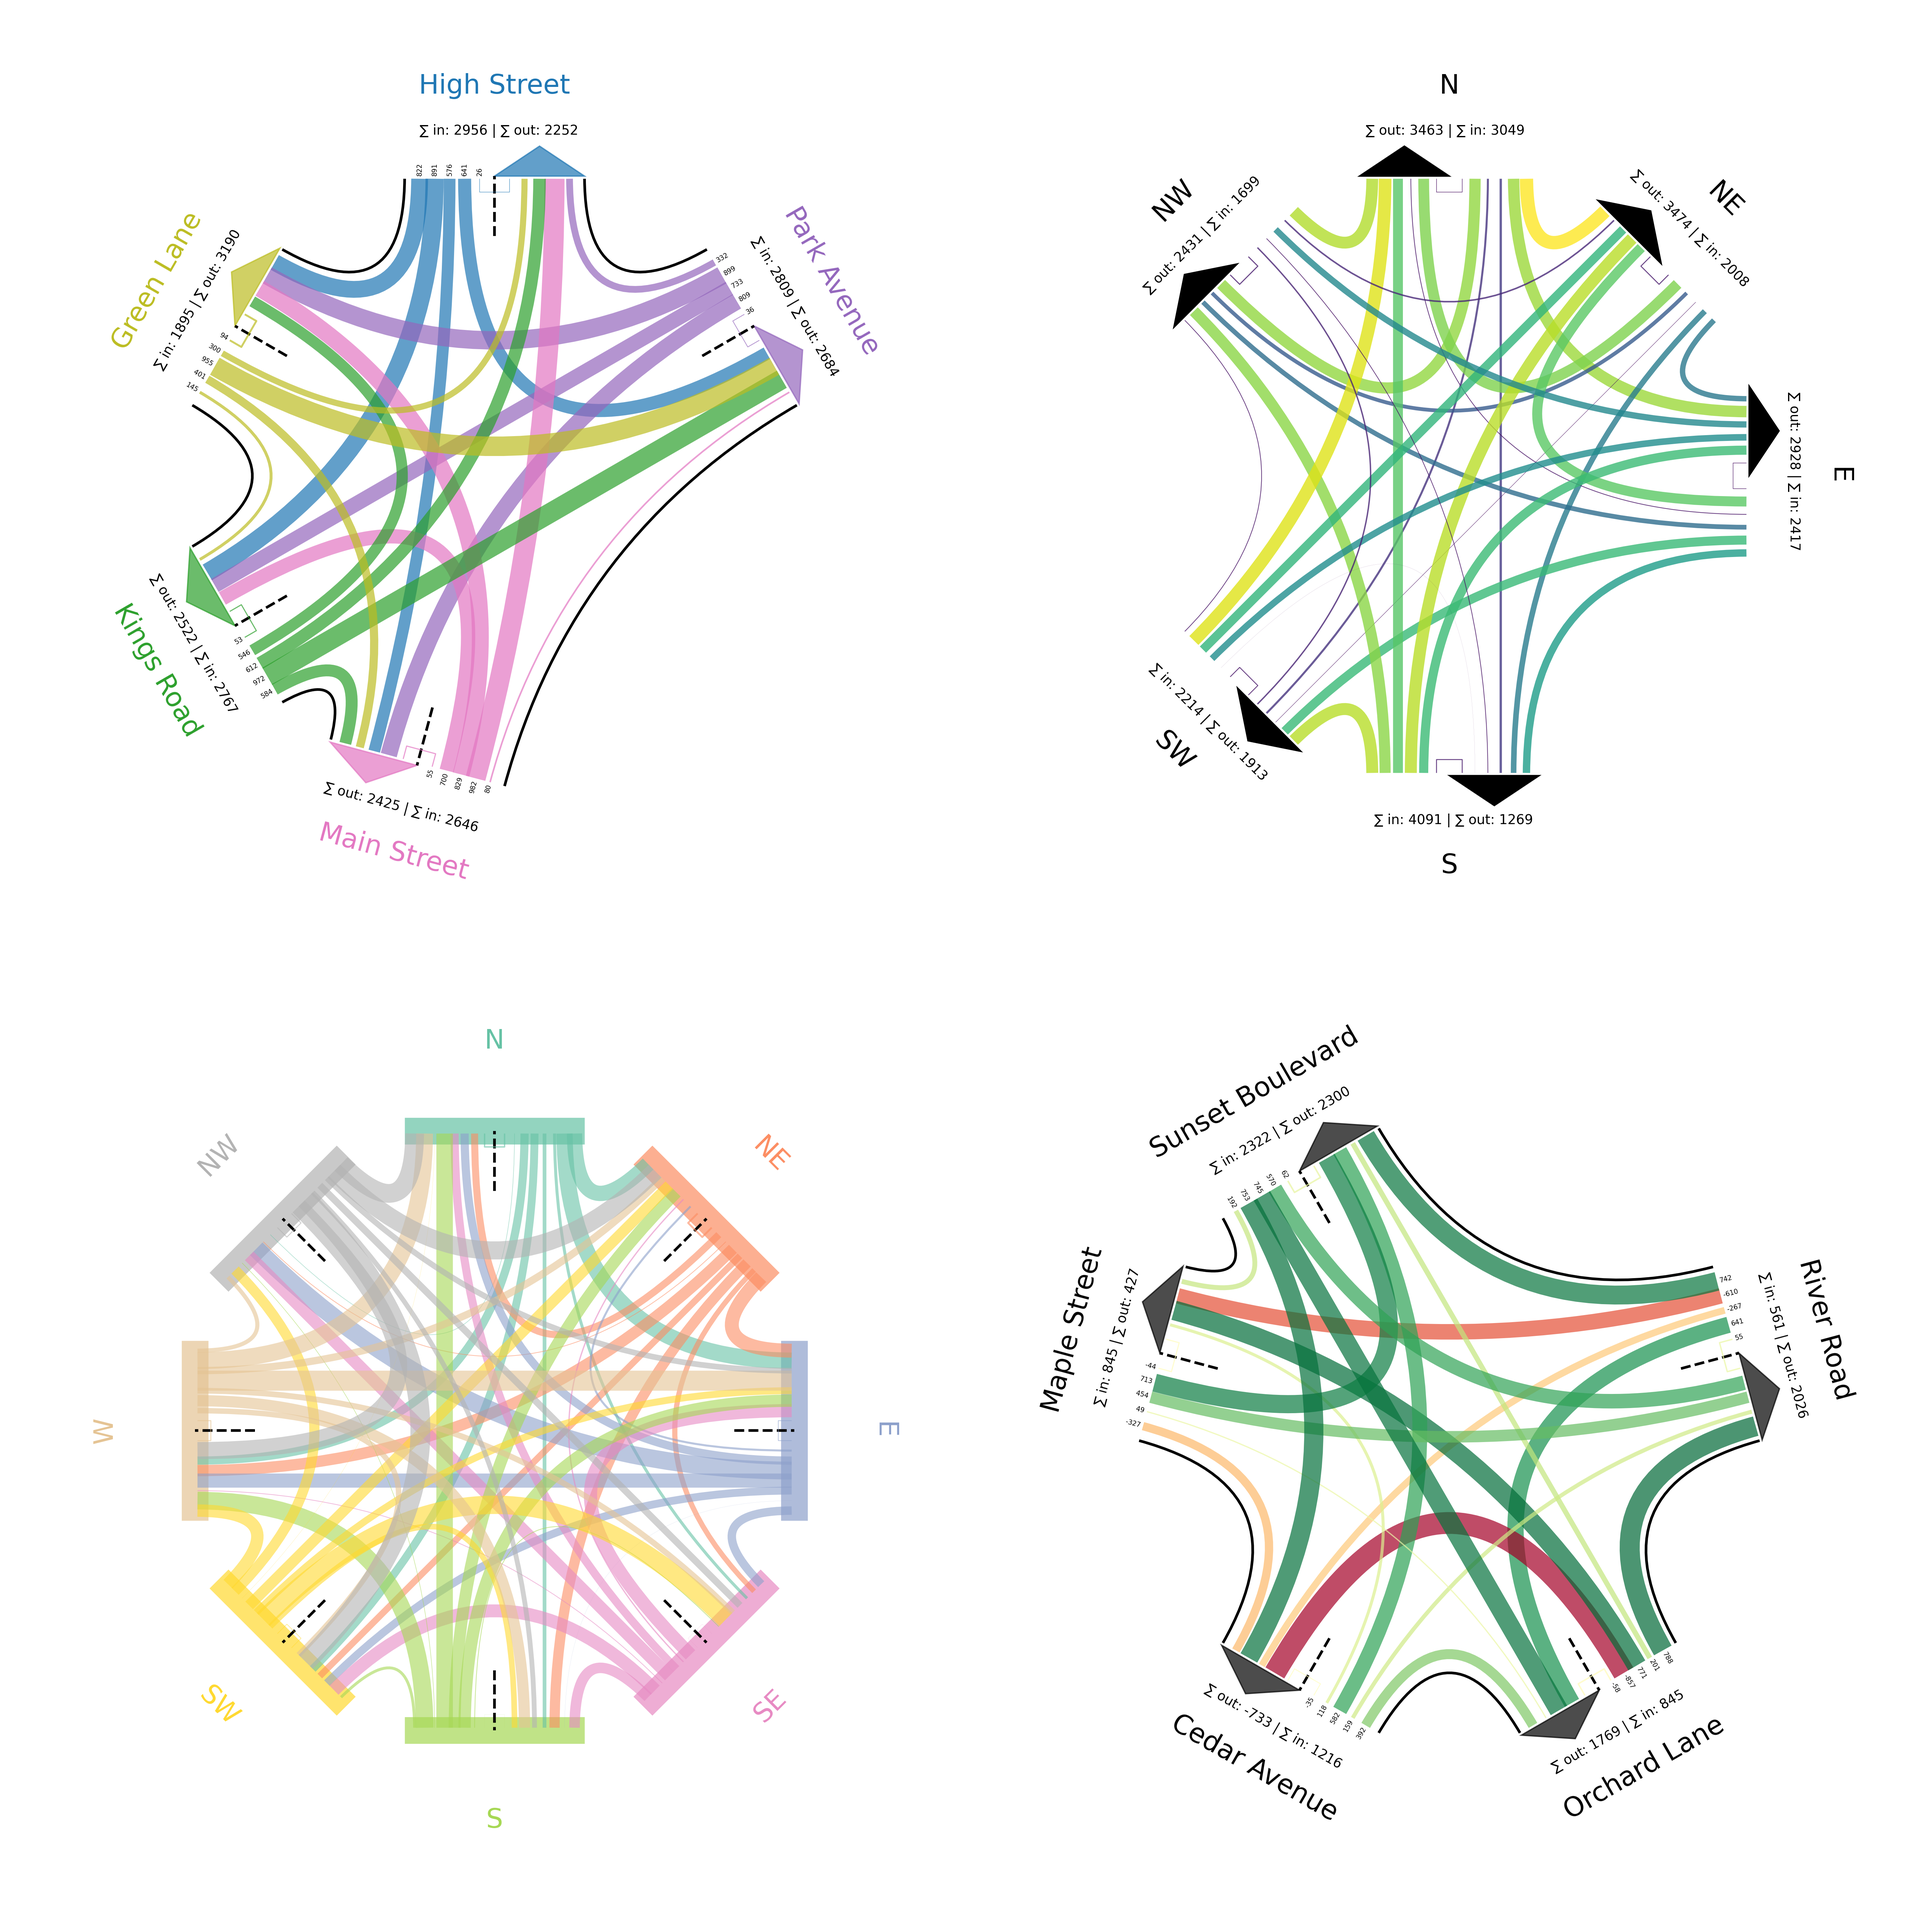
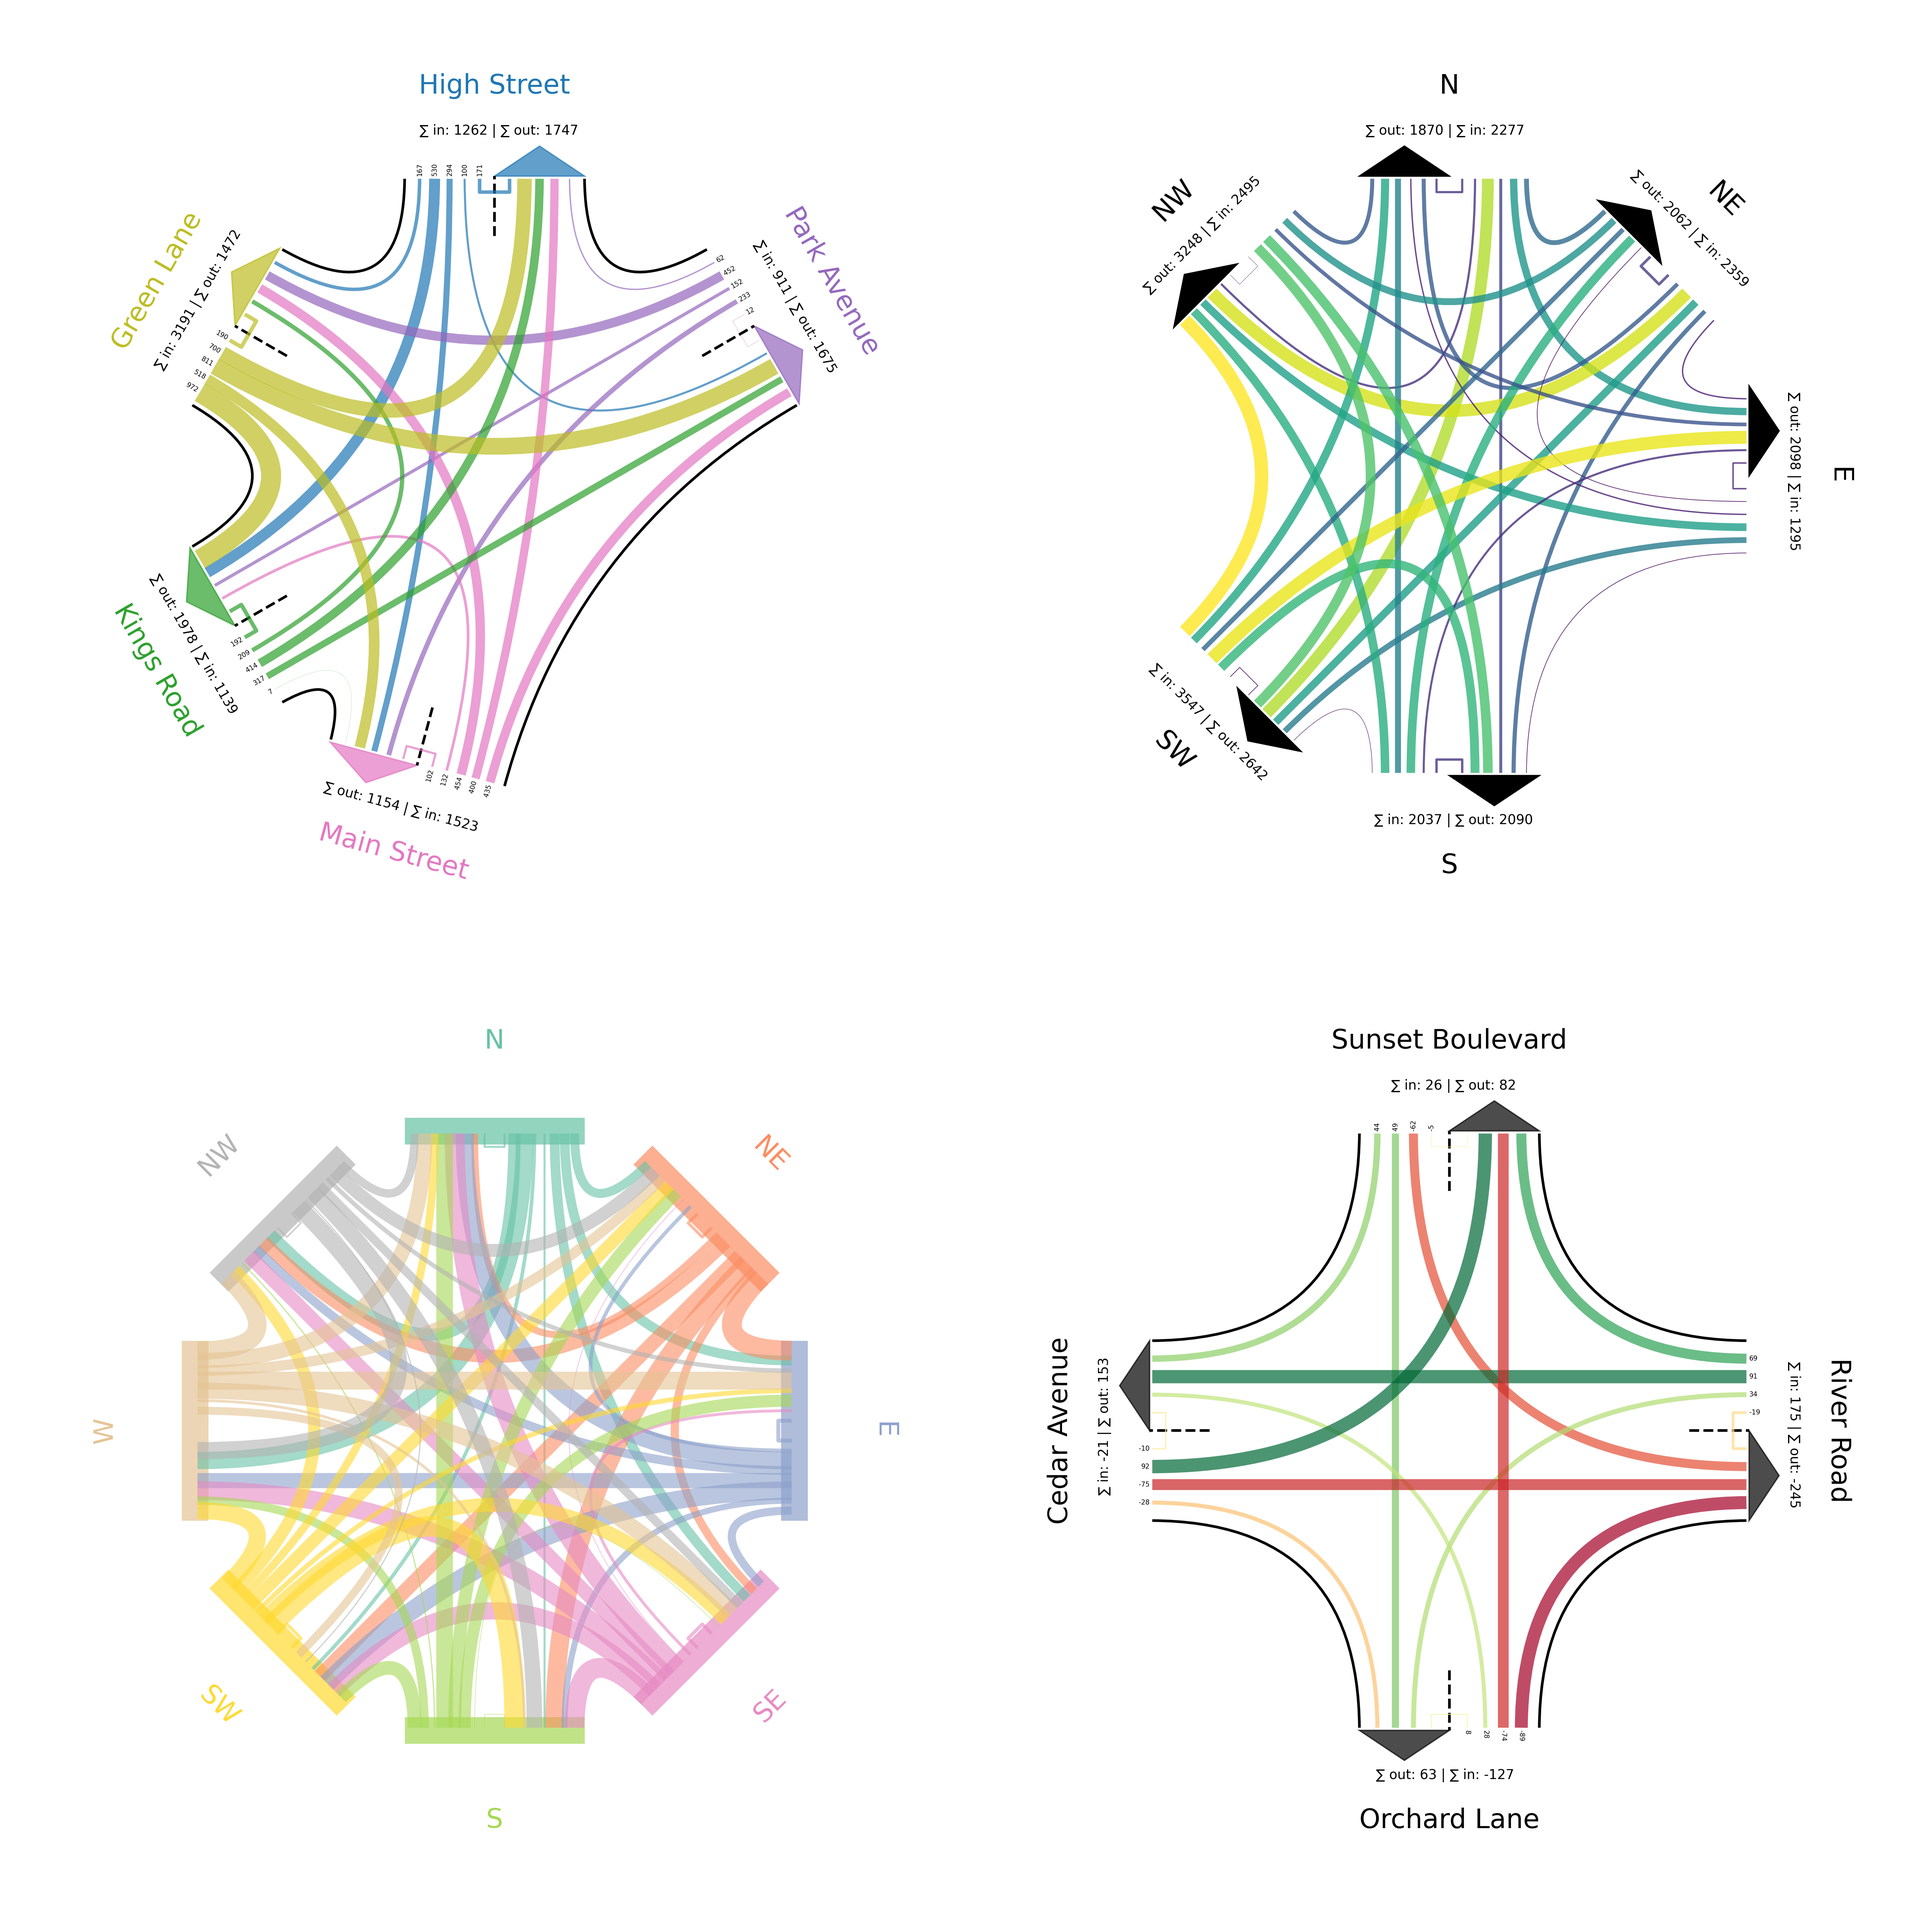
ReadMe and Class import

diff --git a/IntersectionTrafficFlow/core.py b/IntersectionTrafficFlow/core.py
@@ -33,6 +33,7 @@ class IntersectionTrafficFlow:
                  cmap_edges_name: str = None,
                  nodes_alpha: float = 0.7,
                  edges_alpha: float = 0.7,
+                 min_edge_width: float = 1,
                  max_edge_width: float = 15,
                  width_road: float = 3,
                  crossbar: bool = False,
@@ -82,6 +83,7 @@ class IntersectionTrafficFlow:
         self.cmap_edges_name = cmap_edges_name
         self.nodes_alpha = nodes_alpha
         self.edges_alpha = edges_alpha
+        self.min_edge_width = min_edge_width
         self.max_edge_width = max_edge_width
         self.width_road = width_road
         self.crossbar = crossbar
@@ -173,8 +175,8 @@ class IntersectionTrafficFlow:
     
     def plot_edges(self, od_matrix: List[Tuple[str, str, float]], unique_directions: List[str]) -> None:
         edge_width_reduction_factor = self.calculate_edge_width_reduction_factor(od_matrix)
+        min_value, max_value = self.calculate_min_max(od_matrix)
         if self.cmap_edges_name is not None:
-            self.min_value, self.max_value = self.calculate_min_max(od_matrix)
             self.edge_cmap = plt.get_cmap(self.cmap_edges_name)
         
         for (origin, destination, value) in od_matrix:
@@ -202,13 +204,15 @@ class IntersectionTrafficFlow:
             # Get angle for curved Line
             angleA = self.get_connection_angles(origin)
             angleB = self.get_connection_angles(destination)
-            linewidth = value / edge_width_reduction_factor
+
+            # Linewidth
+            linewidth = self.get_linewidth(value, min_value, max_value)
 
             # Colors
             if self.cmap_edges_name is None:
                 color = self.colors[origin]
             else:
-                color = self.get_cmap_color(value)
+                color = self.get_cmap_color(value, min_value, max_value)
 
             # Edges
             if origin == destination:
@@ -398,6 +402,11 @@ class IntersectionTrafficFlow:
     def calculate_edge_width_reduction_factor(self, od_matrix: List[Tuple[str, str, float]]) -> None:
         max_value = max(value for _, _, value in od_matrix)
         return max_value / self.max_edge_width
+    
+    def get_linewidth(self, value: float, min_value: float, max_value: float) -> int:
+        scale = (self.max_edge_width - self.min_edge_width) / (max_value - min_value)
+        return self.min_edge_width + (value - min_value) * scale
+
         
     def calculate_angle(self, key: str) -> float:
         return np.deg2rad(self.cartesian_angles[key]-90)
@@ -442,8 +451,8 @@ class IntersectionTrafficFlow:
     
     # Styling Functions
 
-    def get_cmap_color(self, value):
-        normalized = (value - self.min_value) / (self.max_value - self.min_value)
+    def get_cmap_color(self, value: float, min_value: int, max_value: int):
+        normalized = (value - min_value) / (max_value - min_value)
         return self.edge_cmap(normalized)
 
     def customize_plot(self) -> None:

diff --git a/examples/multi_example.py b/examples/multi_example.py
@@ -1,7 +1,7 @@
 import os
 import random
 import matplotlib.pyplot as plt
-from IntersectionTrafficFlow import IntersectionTrafficFlow
+import IntersectionTrafficFlow
 
 fig, axs = plt.subplots(nrows=2, ncols=2, figsize=(20,20))
 plt.tight_layout()
@@ -40,7 +40,7 @@ od_matrix = []
 for origin in directions_1:
     for destination in directions_1:
         if origin == destination:
-            od_matrix.append((origin, destination, random.randint(min_val, max_val/10)))
+            od_matrix.append((origin, destination, random.randint(min_val, max_val/5)))
         else:
             od_matrix.append((origin, destination, random.randint(min_val, max_val)))
 
@@ -79,7 +79,7 @@ od_matrix = []
 for origin in directions_2:
     for destination in directions_2:
         if origin == destination:
-            od_matrix.append((origin, destination, random.randint(min_val, max_val/10)))
+            od_matrix.append((origin, destination, random.randint(min_val, max_val/5)))
         else:
             od_matrix.append((origin, destination, random.randint(min_val, max_val)))
 
@@ -100,7 +100,7 @@ itf_3 = IntersectionTrafficFlow(
     crossbar = True,
     width_crossbar = 20,
     exit_arrow = False,
-    centerline = True,
+    centerline = False,
     roadside = False,
     text_offset = 3,
     direction_text = True,
@@ -119,7 +119,7 @@ od_matrix = []
 for origin in directions_3:
     for destination in directions_3:
         if origin == destination:
-            od_matrix.append((origin, destination, random.randint(min_val, max_val/10)))
+            od_matrix.append((origin, destination, random.randint(min_val, max_val/5)))
         else:
             od_matrix.append((origin, destination, random.randint(min_val, max_val)))
 
@@ -127,7 +127,7 @@ itf_3.plot(axs.flat[2], od_matrix)
 
 
 # Fourth Intersection
-custom_4 = {'Sunset Boulevard': 330, 'River Road': 75, 'Orchard Lane': 150, 'Cedar Avenue': 210, 'Maple Street': 285}
+custom_4 = {'Sunset Boulevard': 0, 'River Road': 90, 'Orchard Lane': 180, 'Cedar Avenue': 270}
 itf_4 = IntersectionTrafficFlow(
     radius = 10,
     custom_directions = custom_4,
@@ -136,7 +136,7 @@ itf_4 = IntersectionTrafficFlow(
     cmap_edges_name = 'RdYlGn',
     nodes_alpha = 0.7,
     edges_alpha = 0.7,
-    max_edge_width = 15,
+    max_edge_width = 10,
     width_road = 3,
     crossbar = False,
     width_crossbar = 20,
@@ -154,13 +154,13 @@ itf_4 = IntersectionTrafficFlow(
 
 directions_4 = list(custom_4.keys())
 
-max_val = 1000
-min_val = -1000
+max_val = 100
+min_val = -100
 od_matrix = []
 for origin in directions_4:
     for destination in directions_4:
         if origin == destination:
-            od_matrix.append((origin, destination, random.randint(min_val/10, max_val/10)))
+            od_matrix.append((origin, destination, random.randint(min_val/5, max_val/5)))
         else:
             od_matrix.append((origin, destination, random.randint(min_val, max_val)))
 

diff --git a/IntersectionTrafficFlow/__init__.py b/IntersectionTrafficFlow/__init__.py
@@ -1,5 +1,6 @@
-from .core import IntersectionTrafficFlow as _IntersectionTrafficFlow
+from .core import IntersectionTrafficFlow as IntersectionTrafficFlowClass
 
-IntersectionTrafficFlow = _IntersectionTrafficFlow
+def IntersectionTrafficFlow(*args, **kwargs):
+    return IntersectionTrafficFlowClass(*args, **kwargs)
 
 __all__ = ['IntersectionTrafficFlow']

diff --git a/examples/basic_usage.py b/examples/basic_usage.py
@@ -1,6 +1,6 @@
 import os
 import matplotlib.pyplot as plt
-from IntersectionTrafficFlow import IntersectionTrafficFlow
+import IntersectionTrafficFlow
 
 # Initialize the traffic flow visualization
 itf = IntersectionTrafficFlow()

diff --git a/ReadMe.md b/ReadMe.md
@@ -8,9 +8,9 @@
 - Ability to define custom directions and associate specific traffic metrics with those directions.
 - Visual representation of traffic using Matplotlib, allowing easy integration with other data visualization tools in Python.
 
-![Multi_Example](examples/multi_example.png "Multi Example Intersection")
+![Multi_Example](examples/multi_example.png "Multi Example Intersection Flow with Python")
 
-## Installation
+## Install
 
 ### From GitHub
 To install `IntersectionTrafficFlow` directly from GitHub, you can use the following pip command:
@@ -19,7 +19,7 @@ To install `IntersectionTrafficFlow` directly from GitHub, you can use the follo
 pip install git+https://github.com/SeverinHitz/IntersectionTrafficFlow.git
 ```
 
-## Local Installation
+### Local Installation
 
 For local development and testing, you can clone the repository and install the package using:
 
@@ -29,13 +29,13 @@ cd IntersectionTrafficFlow
 pip install .
 ```
 
-## Usage
+## quickstart
 
 Here is a simple example of how to use the IntersectionTrafficFlow to create a traffic flow visualization:
 
 ```python
 import matplotlib.pyplot as plt
-from IntersectionTrafficFlow import IntersectionTrafficFlow
+from IntersectionTrafficFlow
 
 # Initialize the traffic flow visualization
 itf = IntersectionTrafficFlow()
